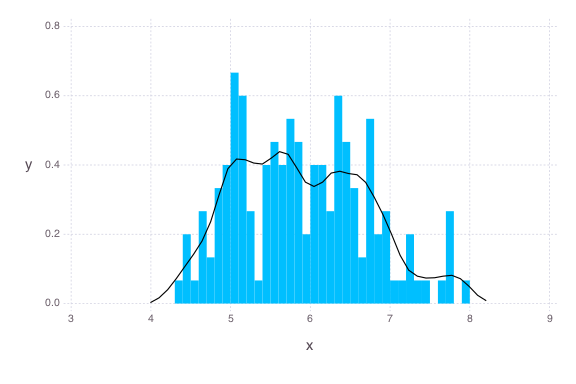
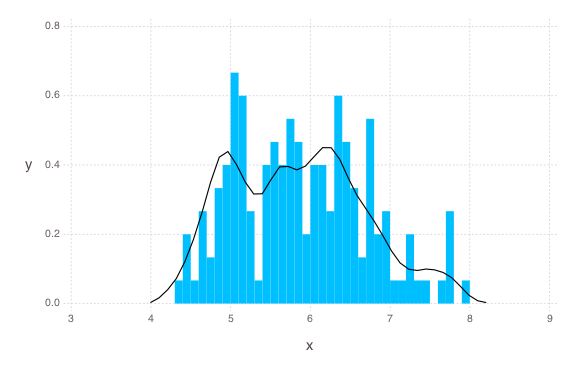
update docs.  Update examples.  Begin summary statistics tests.

diff --git a/doc/examples/ash1.md b/doc/examples/ash1.md
@@ -55,3 +55,37 @@ julia> plot(ashSepalLength, mydata)  # plot estimate over histogram
 **Note**: For the same `Bin1` object, multiple `Ash1` objects can be made.  It may
 be best to try several smoothing parameters `m` and kernels `kernel` to find the
 best fit.
+
+### Get Approximate Summary Statistics
+````julia
+julia> mean(ashSepalLength)
+5.840800000000004
+
+julia> var(ashSepalLength)
+0.7101594356043964
+
+julia> quantile(ashSepalLength, [.25, .5, .75])
+3-element Array{Float64,1}:
+ 5.182
+ 5.83 
+ 6.37 
+
+julia> 
+# true values
+mean(mydata)
+5.843333333333334
+
+julia> var(mydata)
+0.6856935123042507
+
+julia> quantile(mydata, [.25, .5, .75])
+3-element Array{Float64,1}:
+ 5.1
+ 5.8
+ 6.4
+
+````
+
+
+
+
